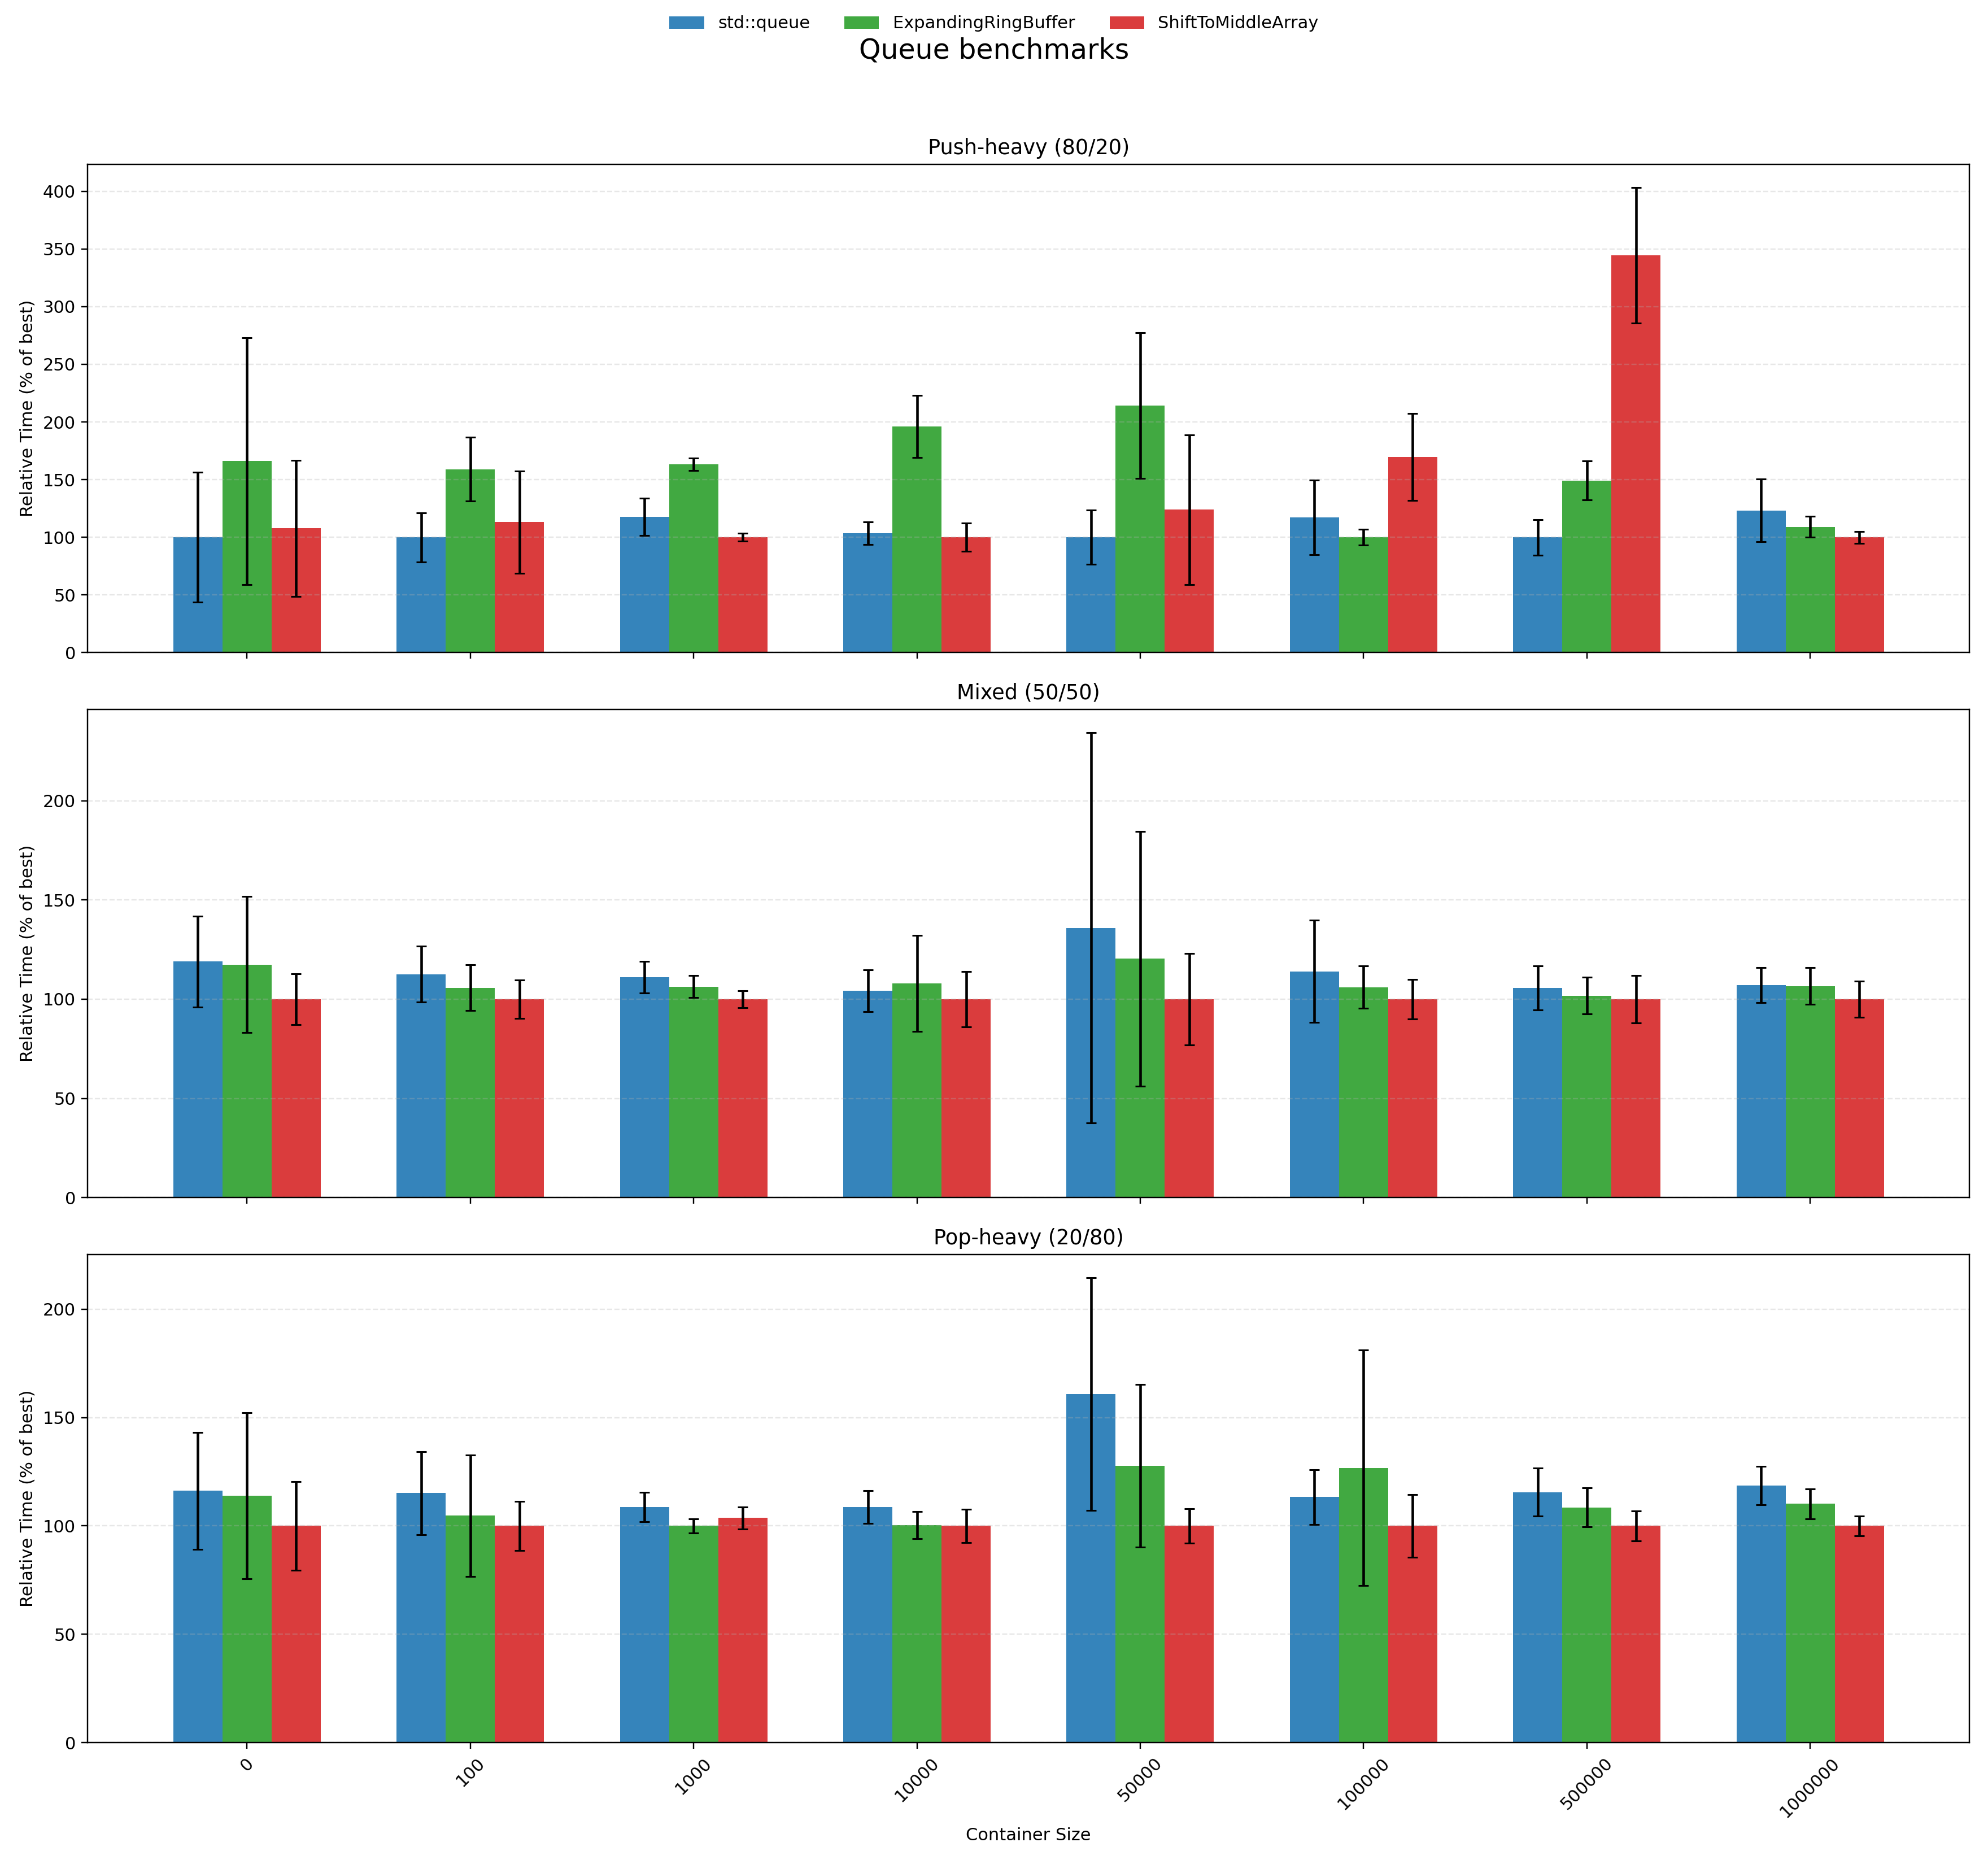
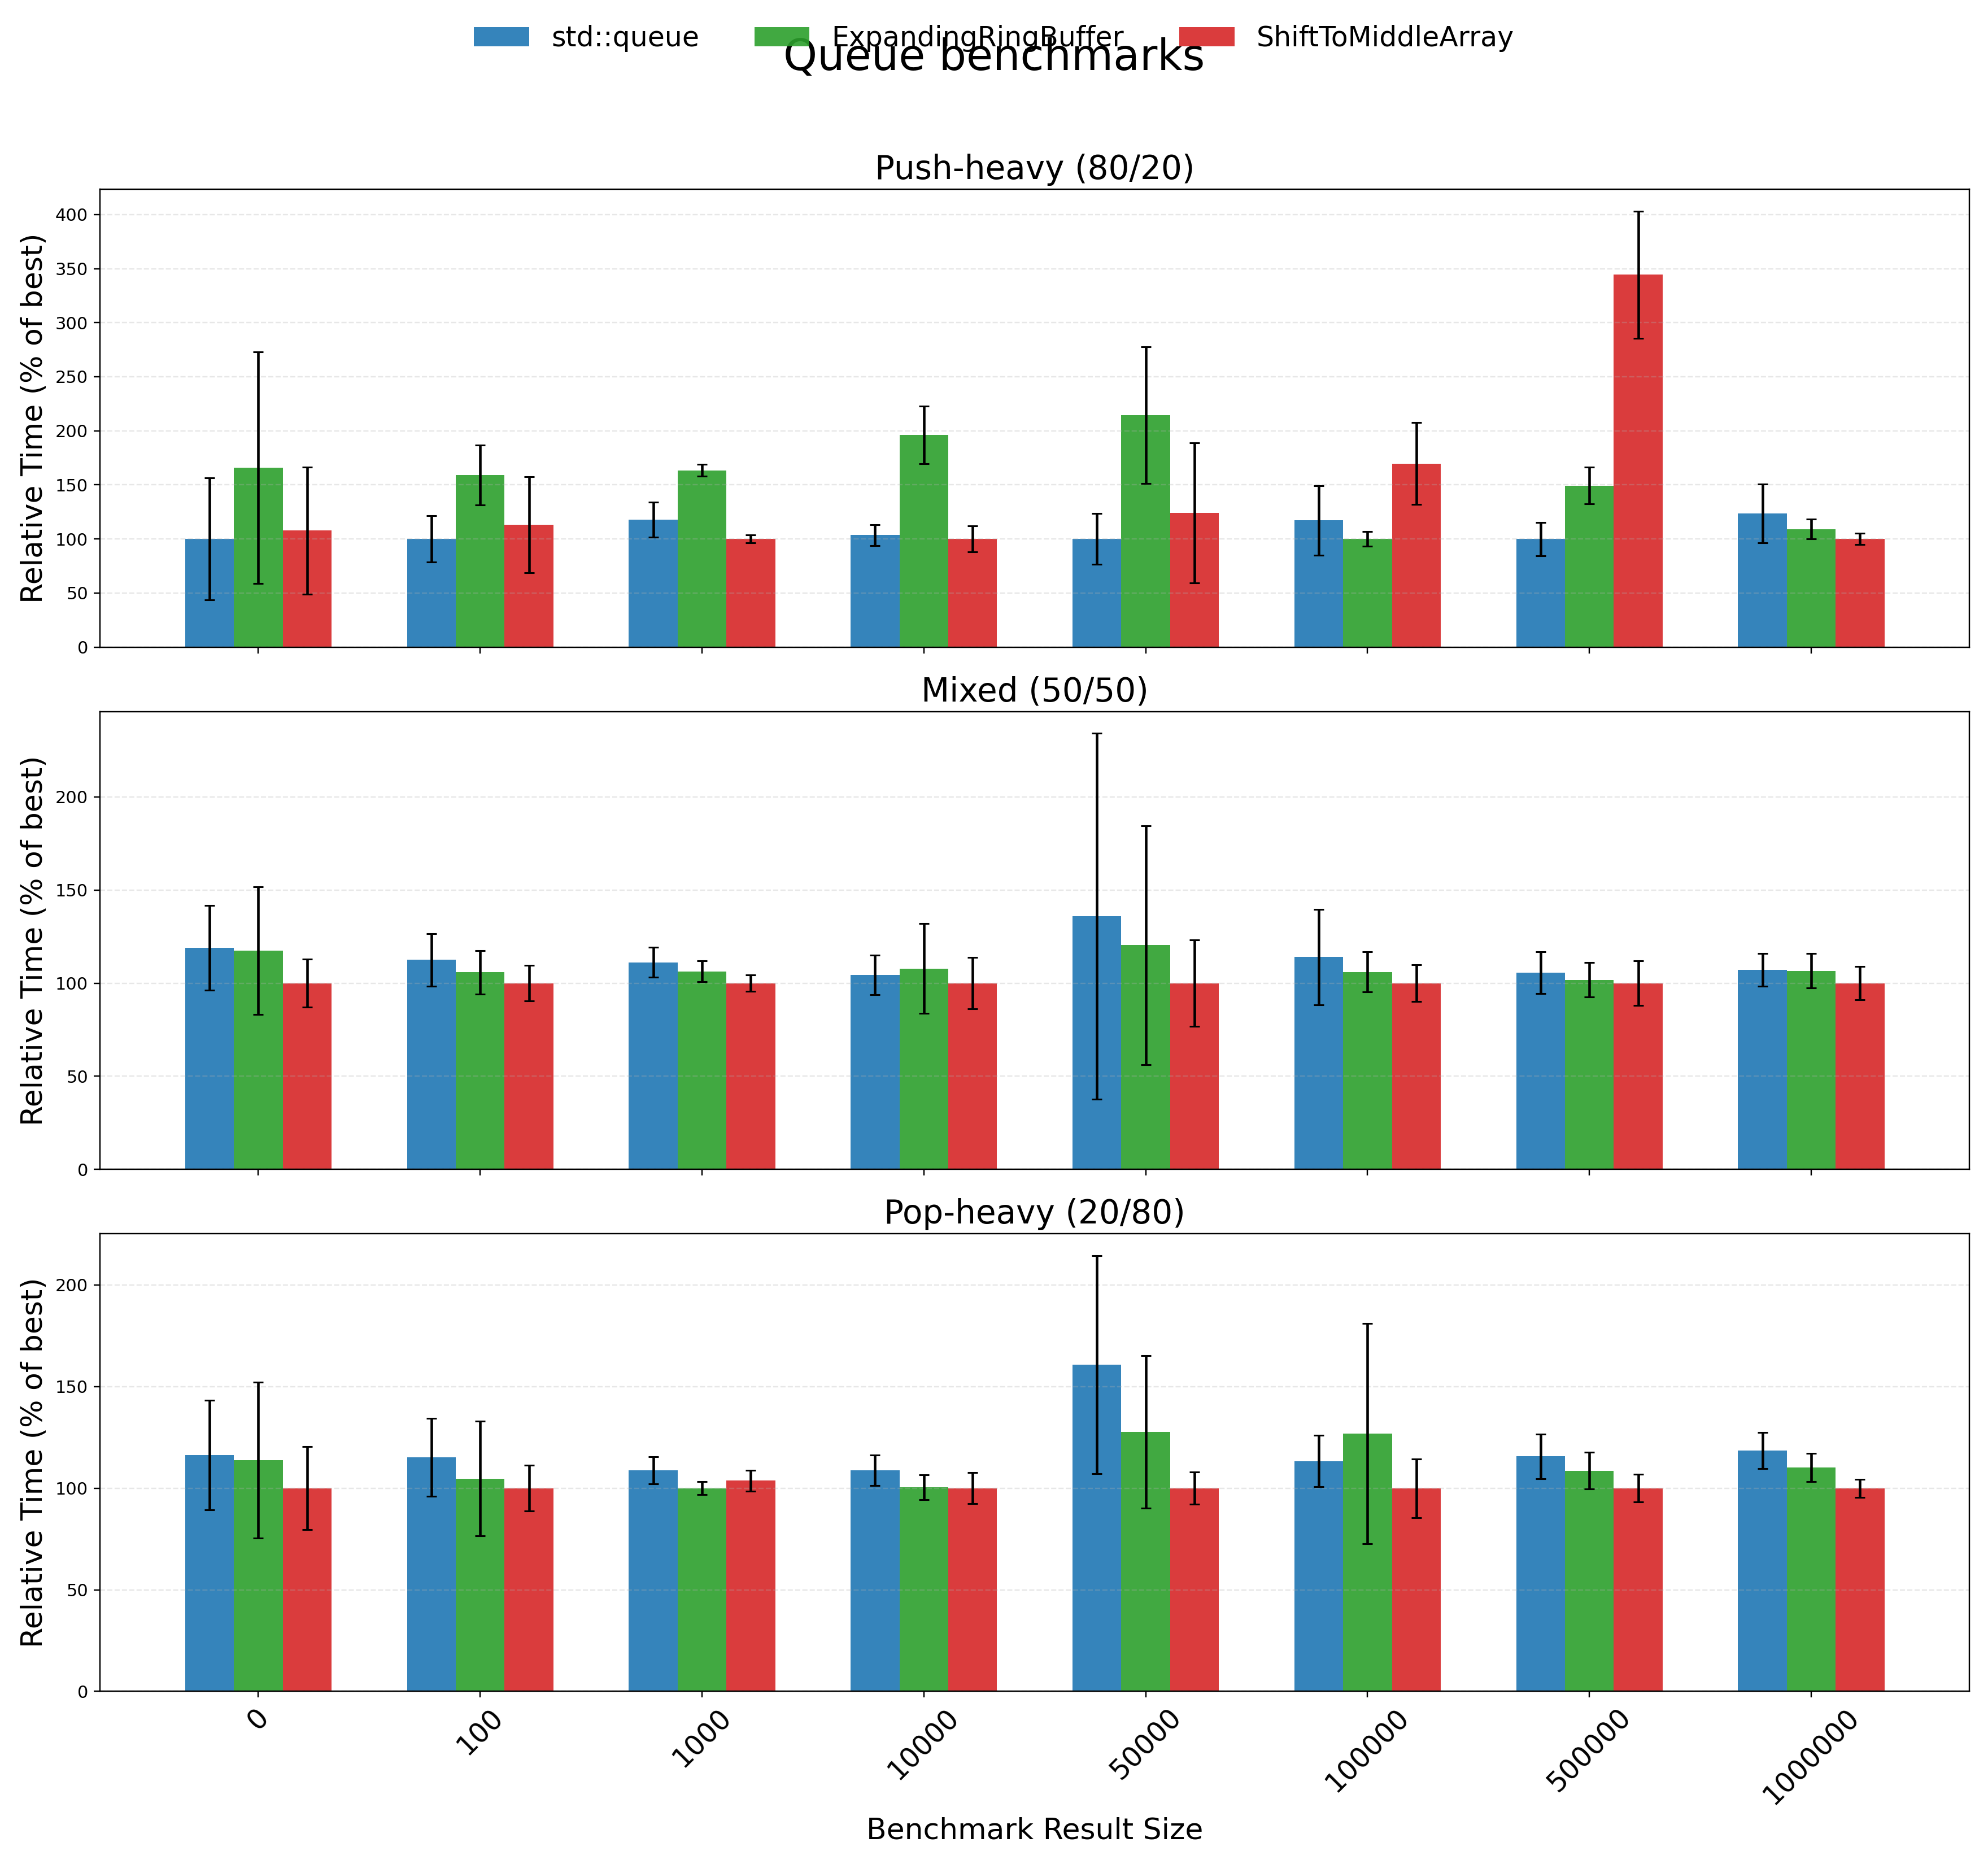
Fix bib entries, remove reviewer artifact, add hardware/compiler details, fix JOSS frontmatter
Remove reviewer meta-comment, drop unverifiable douglas1996 reference, fix georges2007 to
@user, add hardware/compiler/run-count reproducibility paragraph, add DOIs and ISBNs
to all references, expand abbreviated conference names, remove unused meyers2014, fix wrong
area tag, drop redundant usepackage calls, add graphicspath and simplify figure paths, add
JOSS YAML frontmatter and align title.

diff --git a/visualize.py b/visualize.py
@@ -3,6 +3,17 @@ import numpy as np
 import pandas as pd
 import matplotlib.pyplot as plt
 
+
+def _font_profile(multiplier: float):
+    base = {
+        "title": 12,
+        "label": 11,
+        "tick": 10,
+        "legend": 10,
+        "suptitle": 16,
+    }
+    return {k: max(1, int(v * multiplier)) for k, v in base.items()}
+
 COLORS = {
     "ShiftToMiddleArray": "#d62728",
     "ExpandingRingBuffer": "#2ca02c",
@@ -28,10 +39,11 @@ def _relative_with_error(means, stds):
     return rel, rel_std
 
 
-def plot_two_col_schema(file_path, out_path):
+def plot_two_col_schema(file_path, out_path, font_mult=1.0):
     df = pd.read_csv(file_path)
     sizes = sorted(df["Size"].unique())
     containers = list(df["Type"].unique())
+    fp = _font_profile(font_mult)
 
     bar_w = 0.23
     x = np.arange(len(sizes))
@@ -59,11 +71,11 @@ def plot_two_col_schema(file_path, out_path):
             alpha=0.9,
         )
 
-    plt.xticks(x, sizes, rotation=45)
-    plt.xlabel("Container Size")
-    plt.ylabel("Relative Time (% of best at each size)")
-    plt.title(os.path.basename(file_path).replace("_", " ").replace(".csv", ""))
-    plt.legend()
+    plt.xticks(x, sizes, rotation=45, fontsize=fp["tick"])
+    plt.xlabel("Benchmark Result Size", fontsize=fp["label"])
+    plt.ylabel("Relative Time (% of best at each size)", fontsize=fp["label"])
+    plt.title(os.path.basename(file_path).replace("_", " ").replace(".csv", ""), fontsize=fp["title"])
+    plt.legend(fontsize=fp["legend"])
     plt.grid(axis="y", linestyle="--", alpha=0.3)
     plt.tight_layout()
     plt.savefig(out_path, dpi=220)
@@ -71,7 +83,7 @@ def plot_two_col_schema(file_path, out_path):
     print(f"Saved visualization: {out_path}")
 
 
-def plot_queue_schema(file_path, out_path):
+def plot_queue_schema(file_path, out_path, font_mult=1.0):
     df = pd.read_csv(file_path)
     workloads = [
         ("PushHeavyMeanMs", "PushHeavyStdMs", "Push-heavy (80/20)"),
@@ -80,6 +92,7 @@ def plot_queue_schema(file_path, out_path):
     ]
     sizes = sorted(df["Size"].unique())
     containers = list(df["Type"].unique())
+    fp = _font_profile(font_mult)
 
     fig, axes = plt.subplots(3, 1, figsize=(16, 15), sharex=True)
     bar_w = 0.22
@@ -109,16 +122,16 @@ def plot_queue_schema(file_path, out_path):
             )
 
         ax.set_xticks(x)
-        ax.set_xticklabels(sizes, rotation=45)
-        ax.set_title(title)
+        ax.set_xticklabels(sizes, rotation=45, fontsize=fp["tick"])
+        ax.set_title(title, fontsize=fp["title"])
         ax.grid(axis="y", linestyle="--", alpha=0.3)
 
     for ax in axes:
-        ax.set_ylabel("Relative Time (% of best)")
-    axes[-1].set_xlabel("Container Size")
-    fig.suptitle("Queue benchmarks", fontsize=16)
+        ax.set_ylabel("Relative Time (% of best)", fontsize=fp["label"])
+    axes[-1].set_xlabel("Benchmark Result Size", fontsize=fp["label"])
+    fig.suptitle("Queue benchmarks", fontsize=fp["suptitle"])
     handles, labels = axes[0].get_legend_handles_labels()
-    fig.legend(handles, labels, loc="upper center", ncol=len(containers), frameon=False)
+    fig.legend(handles, labels, loc="upper center", ncol=len(containers), frameon=False, fontsize=fp["legend"])
     fig.tight_layout(rect=(0, 0, 1, 0.96))
     fig.savefig(out_path, dpi=220)
     plt.close(fig)
@@ -126,6 +139,14 @@ def plot_queue_schema(file_path, out_path):
 
 
 def main():
+    # User-requested scaling:
+    # User-requested 20% reduction from 2x => 1.6x on all three figures
+    font_multipliers = {
+        "benchmark_results_list.csv": 1.6,
+        "benchmark_results_deque.csv": 1.6,
+        "benchmark_results_queue.csv": 1.6,
+    }
+
     mappings = [
         ("benchmark_results_list.csv", "benchmark_results_list.png"),
         ("benchmark_results_deque.csv", "benchmark_results_deque.png"),
@@ -138,10 +159,11 @@ def main():
             continue
 
         df = pd.read_csv(src)
+        font_mult = font_multipliers.get(src, 1.0)
         if "TimeMeanMs" in df.columns:
-            plot_two_col_schema(src, dst)
+            plot_two_col_schema(src, dst, font_mult=font_mult)
         elif "PushHeavyMeanMs" in df.columns:
-            plot_queue_schema(src, dst)
+            plot_queue_schema(src, dst, font_mult=font_mult)
         else:
             print(f"Unknown schema, skipping: {src}")
 

diff --git a/BenchmarkList.cpp b/BenchmarkList.cpp
@@ -93,18 +93,23 @@ void run_benchmarks_list(int operations) {
         cout << "Container size: " << size << "\n";
 
         std::vector<double> vector_times;
+        std::vector<double> list_times;
         std::vector<double> stm_times;
         vector_times.reserve(runs);
+        list_times.reserve(runs);
         stm_times.reserve(runs);
 
         for (int i = 0; i < runs; ++i) {
             vector_times.push_back(benchmark_random_operations<std::vector<int>>(size, operations));
+            list_times.push_back(benchmark_random_operations_list(size, operations, 10));
             stm_times.push_back(benchmark_random_operations<ShiftToMiddleArray<int>>(size, operations));
         }
 
         double vector_avg_time = mean_of(vector_times);
+        double list_avg_time = mean_of(list_times);
         double stm_avg_time = mean_of(stm_times);
         double vector_std = stddev_of(vector_times, vector_avg_time);
+        double list_std = stddev_of(list_times, list_avg_time);
         double stm_std = stddev_of(stm_times, stm_avg_time);
 
         cout << "Benchmarking std::vector...\n";
@@ -113,13 +118,15 @@ void run_benchmarks_list(int operations) {
         cout << "Benchmarking ShiftToMiddleArray...\n";
         cout << "ShiftToMiddleArray (avg over " << runs << " runs): " << stm_avg_time << " ms\n\n";
 
+        cout << "Benchmarking std::list...\n";
+        cout << "std::list (avg over " << runs << " runs): " << list_avg_time << " ms\n\n";
+
         double speedup = ((vector_avg_time - stm_avg_time) / vector_avg_time) * 100;
         cout << "ShiftToMiddleArray was " << abs(speedup) << "% "
              << (speedup < 0 ? "slower" : "faster") << " than std::vector.\n\n";
 
-        //std::list was too slow, so it was ignored
-
         results_file << size << ",std::vector," << vector_avg_time << "," << vector_std << "\n";
+        results_file << size << ",std::list," << list_avg_time << "," << list_std << "\n";
         results_file << size << ",ShiftToMiddleArray," << stm_avg_time << "," << stm_std << "\n";
     }
 

diff --git a/visualize2.py b/visualize2.py
@@ -58,7 +58,7 @@ def plot_benchmark(file_path):
                 #    plt.annotate('!', (x_pos, 190), ha='center', fontsize=12, color='black')
     
     plt.xticks(x_positions[::3] + (len(containers) * bar_width / 2), test_sizes, rotation=45)
-    plt.xlabel('Container Size')
+    plt.xlabel('Benchmark Result Size')
     plt.ylabel('Relative Time (%)')
     plt.title(os.path.basename(file_path).replace('_', ' ').replace('.csv', ''))
     

diff --git a/JOSS/paper.md b/JOSS/paper.md
@@ -1,0 +1,68 @@
+# Shift-To-Middle Array: A contiguous alternative for dynamic end-operations
+
+## Summary
+
+Shift-To-Middle Array (STM) is a contiguous sequence-container strategy for workloads that mix frequent front/back updates with index-based access. Instead of reserving growth slack only at one end, STM recenters active elements during expansion and preserves free space on both sides. The goal is to reduce repeated relocation costs in bursty queue/deque-like mutation patterns while maintaining cache-friendly contiguous storage and constant-time indexing semantics.
+
+This repository provides a C++ implementation of STM, correctness and differential tests, and reproducible benchmarks against standard-library baselines. The results position STM as a practical engineering alternative in mixed front/back mutation scenarios: often competitive with deque-like approaches, frequently stronger in selected mixed/pop-heavy queue-like regimes, and still grounded in conservative claims rather than universal superiority.
+
+## Statement of need
+
+Developers frequently choose between:
+
+- contiguous structures with strong locality and indexing (e.g., vector-like layouts), and
+- structures that better tolerate edge mutations (e.g., deque/list-like layouts).
+
+In many real systems, workloads are not purely append-only or purely random-access. Pipelines can alternate between push-heavy and pop-heavy phases, producer-consumer paths can become bursty, and practical applications may combine edge mutations with indexed reads. In these settings, one-sided contiguous growth can incur repeated shifts under front pressure, while pointer-heavy alternatives can weaken locality and indexed-access ergonomics.
+
+STM addresses this gap by preserving contiguous layout while improving tolerance to mixed front/back mutation pressure through two-sided slack. The contribution is not a claim that STM dominates mature STL containers in all scenarios; rather, it offers a reproducible, test-backed implementation strategy for workloads where contiguous access patterns and frequent end mutations must coexist.
+
+## Core design and complexity
+
+STM stores elements contiguously and tracks logical head/tail positions inside a larger allocated block. When free space is exhausted and growth is needed, the active segment is copied into the center of a larger allocation. This re-centering restores slack on both sides and helps amortize future front/back operations.
+
+Conservative complexity positioning is:
+
+- index access: `O(1)`
+- end insert/delete: amortized `O(1)`
+- middle insert/delete: `O(n)` in the general case
+
+As with classical dynamic arrays, performance constants depend on growth policy and allocator behavior. STM intentionally accepts extra slack-management overhead to reduce repeated edge-shift penalties in mutation-heavy mixed regimes.
+
+## Implementation and reproducibility
+
+This repository includes:
+
+- `ShiftToMiddleArray.h`: core STM implementation,
+- `stm_*tests.cpp`: API, unit, smoke, sanity, and differential tests,
+- `BenchmarkList.cpp`, `BenchmarkDequeue.cpp`, `BenchmarkQueue.cpp`: benchmark drivers,
+- `benchmark_results_*.csv`: reproducible benchmark outputs,
+- `visualize.py`: figure-generation pipeline.
+
+Benchmark runs use fixed pseudo-random seeds and repeated measurements with variability reporting. Baselines include `std::vector`, `std::deque`, `std::list`, and queue/deque-relevant adapters where semantically appropriate. This framing supports reproducible comparisons while avoiding over-interpretation of single-run or machine-specific timing points.
+
+## Benchmark overview and interpretation
+
+The benchmark suite covers queue-like, deque-like, and list-like workload families. Interpreted by workload trends rather than isolated point wins, the results show:
+
+- **List-like regimes**: STM is often strong at small-to-medium sizes and can remain competitive at larger sizes.
+- **Deque-like regimes**: STM is typically near parity with deque/ring-buffer-style approaches, with both wins and losses.
+- **Queue-like regimes**: STM shows its strongest behavior in mixed and pop-heavy settings, while push-heavy behavior can be more variable.
+
+These outcomes support a practical positioning: STM is a viable contiguous alternative for mixed end-mutation workloads, not a categorical replacement for all standard containers.
+
+![Figure 1 (2x text): list-like workload relative performance](figures/figure1_list_2x.png)
+
+![Figure 2 (4x text): deque-like workload relative performance](figures/figure2_deque_4x.png)
+
+![Figure 3 (4x text): queue-like workload relative performance](figures/figure3_queue_4x.png)
+
+## Limitations and future work
+
+Absolute timings are hardware-, compiler-, and allocator-dependent. Some workload families are synthetic and may not cover all production access patterns. Future work includes broader cross-platform studies, deeper profiling (cache, branch, allocation behavior), and tuning of growth/re-centering heuristics.
+
+## Acknowledgements
+
+The benchmarking and reporting structure in this repository follows reproducibility-oriented performance evaluation practice and was improved through iterative review and manuscript refinement.
+
+## References